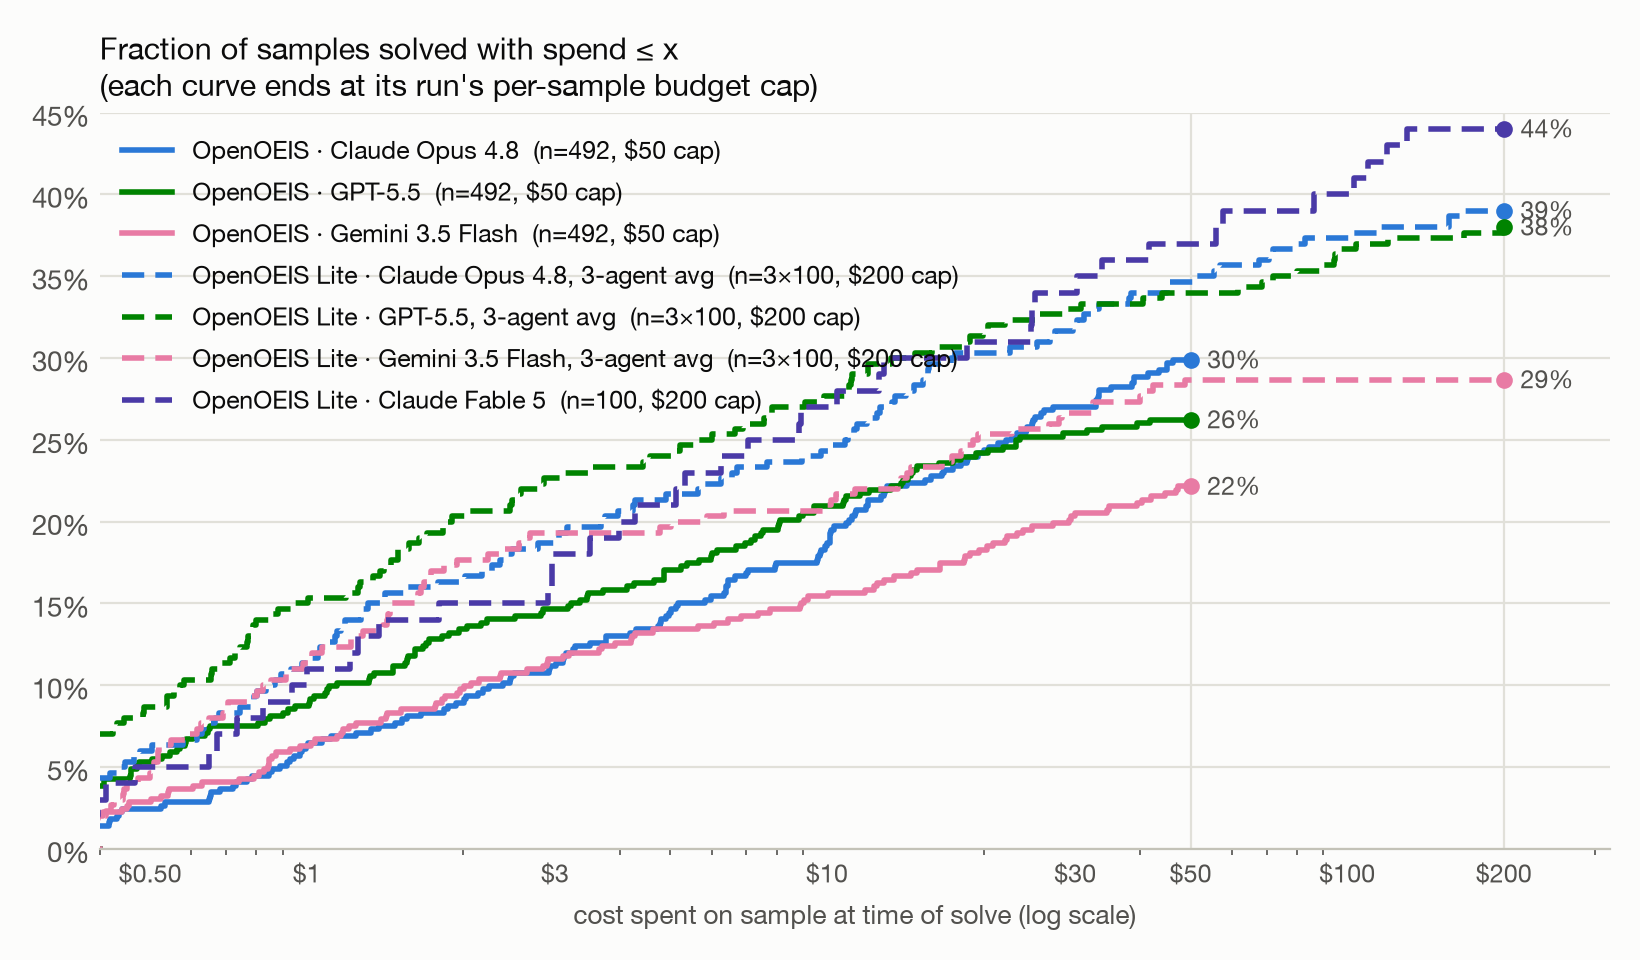
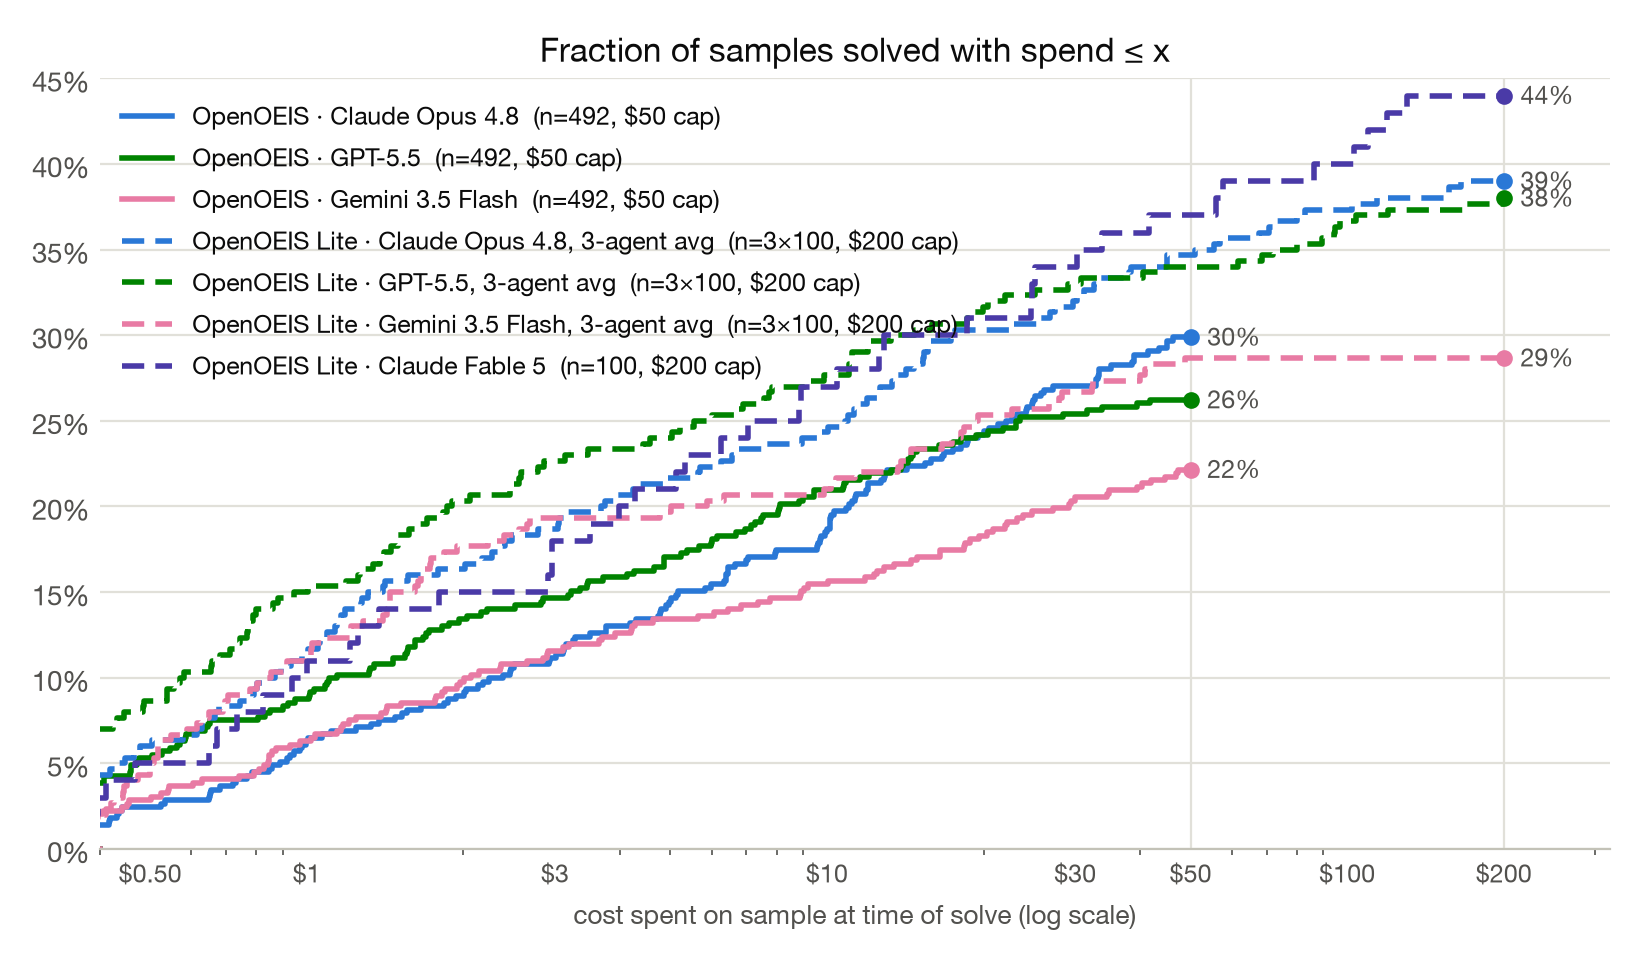
White plot backgrounds; titles only, centered figure-level titles

Changed region(s): [[0.0, 0.0312, 0.964, 0.875], [0.0, 0.5, 0.0622, 0.5625], [0.0311, 0.5938, 0.0622, 0.6562]]

diff --git a/plots/make_proposed_year_plot.py b/plots/make_proposed_year_plot.py
@@ -23,7 +23,7 @@ INK2 = "#52514e"
 MUTED = "#898781"
 GRID = "#e1e0d9"
 BASELINE = "#c3c2b7"
-SURFACE = "#fcfcfb"
+SURFACE = "#ffffff"
 
 rcParams.update({
     "font.family": ["Helvetica Neue", "Arial", "DejaVu Sans"],
@@ -65,9 +65,8 @@ BINS = [("≤2006", 0, 2006), ("2007–11", 2007, 2011), ("2012–16", 2012, 201
         ("2017–21", 2017, 2021), ("2022–25", 2022, 2025)]
 
 ROWS = [
-    (f"{BENCH_FULL} · $50 cap · one run per model", full_frac, BINS, 0.62),
-    (f"{BENCH_LITE} · $200 cap · pooled over base/deep/lit agent runs", lite_frac,
-     BINS, 1.04),
+    (BENCH_FULL, full_frac, BINS, 0.62),
+    (BENCH_LITE, lite_frac, BINS, 1.04),
 ]
 
 fig, axes = plt.subplots(2, 1, figsize=(9.2, 8.4))
@@ -105,7 +104,8 @@ for (row_title, frac, bins, ymax), ax in zip(ROWS, axes):
     note = f"{len(dated)}/{len(frac)} conjectures with a date"
     if n_binned < len(dated):
         note += f", {len(dated) - n_binned} pre-{BINS[0][1]} excluded"
-    ax.set_title(f"{row_title} · {note}", fontsize=10.5, loc="left", color=INK, pad=10)
+    print(f"{row_title}: {note}")
+    ax.set_title(row_title, fontsize=10.5, loc="left", color=INK, pad=10)
 
 axes[1].set_xlabel("year the conjecture was proposed", fontsize=9, color=INK2)
 # the lite panel has every provider, the full panel may not; legend from the union
@@ -115,8 +115,8 @@ for ax in axes:
     handles.update(zip(l, h))
 axes[0].legend(handles.values(), handles.keys(), frameon=False, fontsize=9,
                loc="upper left")
-fig.suptitle("Solve rate by year the conjecture was proposed (±1 s.e.)",
-             fontsize=11.5, x=0.01, ha="left", color=INK)
+fig.suptitle("Solve rate by year the conjecture was proposed",
+             fontsize="x-large")
 fig.tight_layout(rect=(0, 0, 1, 0.96), h_pad=3)
 fig.savefig(OUT / "proposed_year_solve_rate.png", dpi=200)
 print("wrote", OUT / "proposed_year_solve_rate.png")

diff --git a/plots/make_citation_plots.py b/plots/make_citation_plots.py
@@ -21,7 +21,7 @@ INK2 = "#52514e"
 MUTED = "#898781"
 GRID = "#e1e0d9"
 BASELINE = "#c3c2b7"
-SURFACE = "#fcfcfb"
+SURFACE = "#ffffff"
 
 rcParams.update({
     "font.family": ["Helvetica Neue", "Arial", "DejaVu Sans"],
@@ -70,10 +70,8 @@ NATIVE_LITE = [("0", 0, 0), ("1–2", 1, 2), ("3+", 3, 10**9)]
 OPENALEX = [("0", 0, 0), ("1+", 1, 10**9)]
 
 ROWS = [
-    (f"{BENCH_FULL} · $50 cap · one run per model", full_frac, full_oeis,
-     NATIVE_FULL),
-    (f"{BENCH_LITE} · $200 cap · pooled over base/deep/lit agent runs", lite_frac,
-     lite_oeis, NATIVE_LITE),
+    (BENCH_FULL, full_frac, full_oeis, NATIVE_FULL),
+    (BENCH_LITE, lite_frac, lite_oeis, NATIVE_LITE),
 ]
 
 fig, axes = plt.subplots(2, 2, figsize=(11.5, 8.6),
@@ -81,7 +79,7 @@ fig, axes = plt.subplots(2, 2, figsize=(11.5, 8.6),
 bar_w = 0.26
 for (row_title, frac, oeis_of, native_bins), (axl, axr) in zip(ROWS, axes):
     for ax, counts, bins, title in [
-        (axl, native, native_bins, "OEIS page citations (links & references)"),
+        (axl, native, native_bins, "OEIS page citations"),
         (axr, openalex, OPENALEX, "OpenAlex citing works"),
     ]:
         groups = [[s for s in frac if lo <= counts.get(oeis_of[s], 0) <= hi]
@@ -128,8 +126,8 @@ for ax in (axes[0][0], axes[1][0]):
     handles.update(zip(l, h))
 axes[0][0].legend(handles.values(), handles.keys(), frameon=False, fontsize=9,
                   loc="upper left")
-fig.suptitle("Solve rate by citation count of the underlying sequence (±1 s.e.)",
-             fontsize=11.5, x=0.01, ha="left", color=INK)
+fig.suptitle("Solve rate by citation count of the underlying sequence",
+             fontsize="x-large")
 fig.tight_layout(rect=(0, 0, 1, 0.95), h_pad=4)
 fig.savefig(OUT / "citations_solve_rate.png", dpi=200)
 print("wrote", OUT / "citations_solve_rate.png")

diff --git a/plots/make_plots.py b/plots/make_plots.py
@@ -63,7 +63,7 @@ INK2 = "#52514e"
 MUTED = "#898781"
 GRID = "#e1e0d9"
 BASELINE = "#c3c2b7"
-SURFACE = "#fcfcfb"
+SURFACE = "#ffffff"
 
 rcParams.update({
     "font.family": ["Helvetica Neue", "Arial", "DejaVu Sans"],
@@ -144,9 +144,7 @@ for j, variant in enumerate(variants):
 ax1.set_xticks(range(len(providers)))
 ax1.set_xticklabels([MODEL_LABELS[p] for p in providers], fontsize=10.5)
 style_axis(ax1)
-ax1.set_title(f"{BENCH_LITE} — accuracy by model and agent variant\n"
-              "(n=100 conjectures, $200 budget/sample, ±1 s.e.)",
-              fontsize=11, loc="left", color=INK)
+ax1.set_title(BENCH_LITE, fontsize=11, loc="left", color=INK)
 variant_legend = ax1.legend(
     title="agent variant", frameon=False, fontsize=9.5, title_fontsize=9.5,
     loc="upper center", bbox_to_anchor=(0.62, 1), ncols=len(variants))
@@ -188,9 +186,7 @@ outcome_legend(ax2, [FULL_COLOR], loc="upper center", ncols=2)
 ax2.set_xticks(list(range(len(labels))))
 ax2.set_xticklabels(labels, fontsize=9.5)
 style_axis(ax2)
-n_full = table[("full", "base", full_provs[0])][2]
-ax2.set_title(f"{BENCH_FULL} — accuracy\n(n={n_full}, $50 budget/sample, ±1 s.e.)",
-              fontsize=11, loc="left", color=INK)
+ax2.set_title(f"{BENCH_FULL} (full set)", fontsize=11, loc="left", color=INK)
 fig.tight_layout(w_pad=3)
 fig.savefig(OUT / "accuracy.png", dpi=200)
 print("wrote", OUT / "accuracy.png")

diff --git a/plots/make_proposer_plot.py b/plots/make_proposer_plot.py
@@ -18,7 +18,7 @@ OUT = Path("plots")
 INK = "#0b0b0b"
 INK2 = "#52514e"
 BASELINE = "#c3c2b7"
-SURFACE = "#fcfcfb"
+SURFACE = "#ffffff"
 NEUTRAL = "#f0efec"
 BLUE = "#2a78d6"
 
@@ -91,20 +91,16 @@ def proposer_plot(solved, top_n, title, fname):
                 va="center", fontsize=8.5, color=INK2)
         lx += 0.028 + 0.011 * len(lbl) + 0.03
     ax.set_xlabel("conjectures", fontsize=9.5, color=INK2)
-    ax.set_title(title, fontsize=11, loc="left", color=INK, pad=10)
+    ax.set_title(title)
     fig.tight_layout()
     fig.savefig(OUT / fname, dpi=200, bbox_inches="tight")
     print("wrote", OUT / fname)
 
 full_solved, n_full = outcomes("oeis-full-*")
-proposer_plot(
-    full_solved, 12,
-    f"{BENCH_FULL} — conjectures by proposer\n"
-    f"(solved = ≥1 of the {n_full} full runs, \\$50/sample)",
-    "proposer_solve_rate_full.png")
+print(f"full: {n_full} runs")
+proposer_plot(full_solved, 12, f"{BENCH_FULL} — conjectures by proposer",
+              "proposer_solve_rate_full.png")
 lite_solved, n_lite = outcomes("oeis-lite-*")
-proposer_plot(
-    lite_solved, 8,
-    f"{BENCH_LITE} — conjectures by proposer\n"
-    f"(solved = ≥1 of the {n_lite} lite runs, \\$200/sample)",
-    "proposer_solve_rate_lite.png")
+print(f"lite: {n_lite} runs")
+proposer_plot(lite_solved, 8, f"{BENCH_LITE} — conjectures by proposer",
+              "proposer_solve_rate_lite.png")

diff --git a/plots/make_sample_plots.py b/plots/make_sample_plots.py
@@ -28,7 +28,7 @@ INK2 = "#52514e"
 MUTED = "#898781"
 GRID = "#e1e0d9"
 BASELINE = "#c3c2b7"
-SURFACE = "#fcfcfb"
+SURFACE = "#ffffff"
 NEUTRAL = "#f0efec"
 
 rcParams.update({
@@ -176,7 +176,7 @@ ax.set_title(f"{BENCH_LITE} — which conjectures each model solved\n"
              f"by fewer of that model's agent configs; cell label = mean cost\n"
              f"of the solving runs; rows sorted by mean solve cost; $200\n"
              f"budget/sample)",
-             fontsize=10.5, loc="left", color=INK, pad=14)
+             fontsize=10.5, pad=14)
 fig.tight_layout()
 fig.savefig(OUT / "solve_matrix.png", dpi=200, bbox_inches="tight")
 print("wrote", OUT / "solve_matrix.png")
@@ -223,9 +223,7 @@ ax.tick_params(length=0)
 for cap in {keys[0][1] for keys, _, _ in curves}:
     ax.axvline(cap, color=GRID, linewidth=0.8, zorder=0)
 ax.set_xlabel("cost spent on sample at time of solve (log scale)", fontsize=9.5, color=INK2)
-ax.set_title("Fraction of samples solved with spend ≤ x\n"
-             "(each curve ends at its run's per-sample budget cap)",
-             fontsize=11, loc="left", color=INK)
+ax.set_title("Fraction of samples solved with spend ≤ x")
 ax.legend(frameon=False, fontsize=9, loc="upper left")
 fig.tight_layout()
 fig.savefig(OUT / "solve_cost_curves.png", dpi=200)

diff --git a/plots/make_price_to_solve.py b/plots/make_price_to_solve.py
@@ -34,7 +34,7 @@ INK2 = "#52514e"
 MUTED = "#898781"
 GRID = "#e1e0d9"
 BASELINE = "#c3c2b7"
-SURFACE = "#fcfcfb"
+SURFACE = "#ffffff"
 
 rcParams.update({
     "font.family": ["Helvetica Neue", "Arial", "DejaVu Sans"],
@@ -169,7 +169,7 @@ ax.set_xlabel("hypothetical price to solve (log scale)", fontsize=9.5, color=INK
 ax.set_title(f"{BENCH} — price-to-solve distribution, unsolved samples treated as\n"
              "right-censored: Kaplan–Meier (solid, one obs per conjecture,\n"
              "censored at \\$50 or \\$200) with two extrapolations past the data",
-             fontsize=10.5, loc="left", color=INK)
+             fontsize=10.5)
 from matplotlib.lines import Line2D
 handles, labels_ = ax.get_legend_handles_labels()
 handles += [Line2D([], [], color=INK2, linewidth=1.4, linestyle=(0, (2, 2))),

diff --git a/plots/make_proof_disproof_cost_plot.py b/plots/make_proof_disproof_cost_plot.py
@@ -26,7 +26,7 @@ INK2 = "#52514e"
 MUTED = "#898781"
 GRID = "#e1e0d9"
 BASELINE = "#c3c2b7"
-SURFACE = "#fcfcfb"
+SURFACE = "#ffffff"
 
 rcParams.update({
     "font.family": ["Helvetica Neue", "Arial", "DejaVu Sans"],
